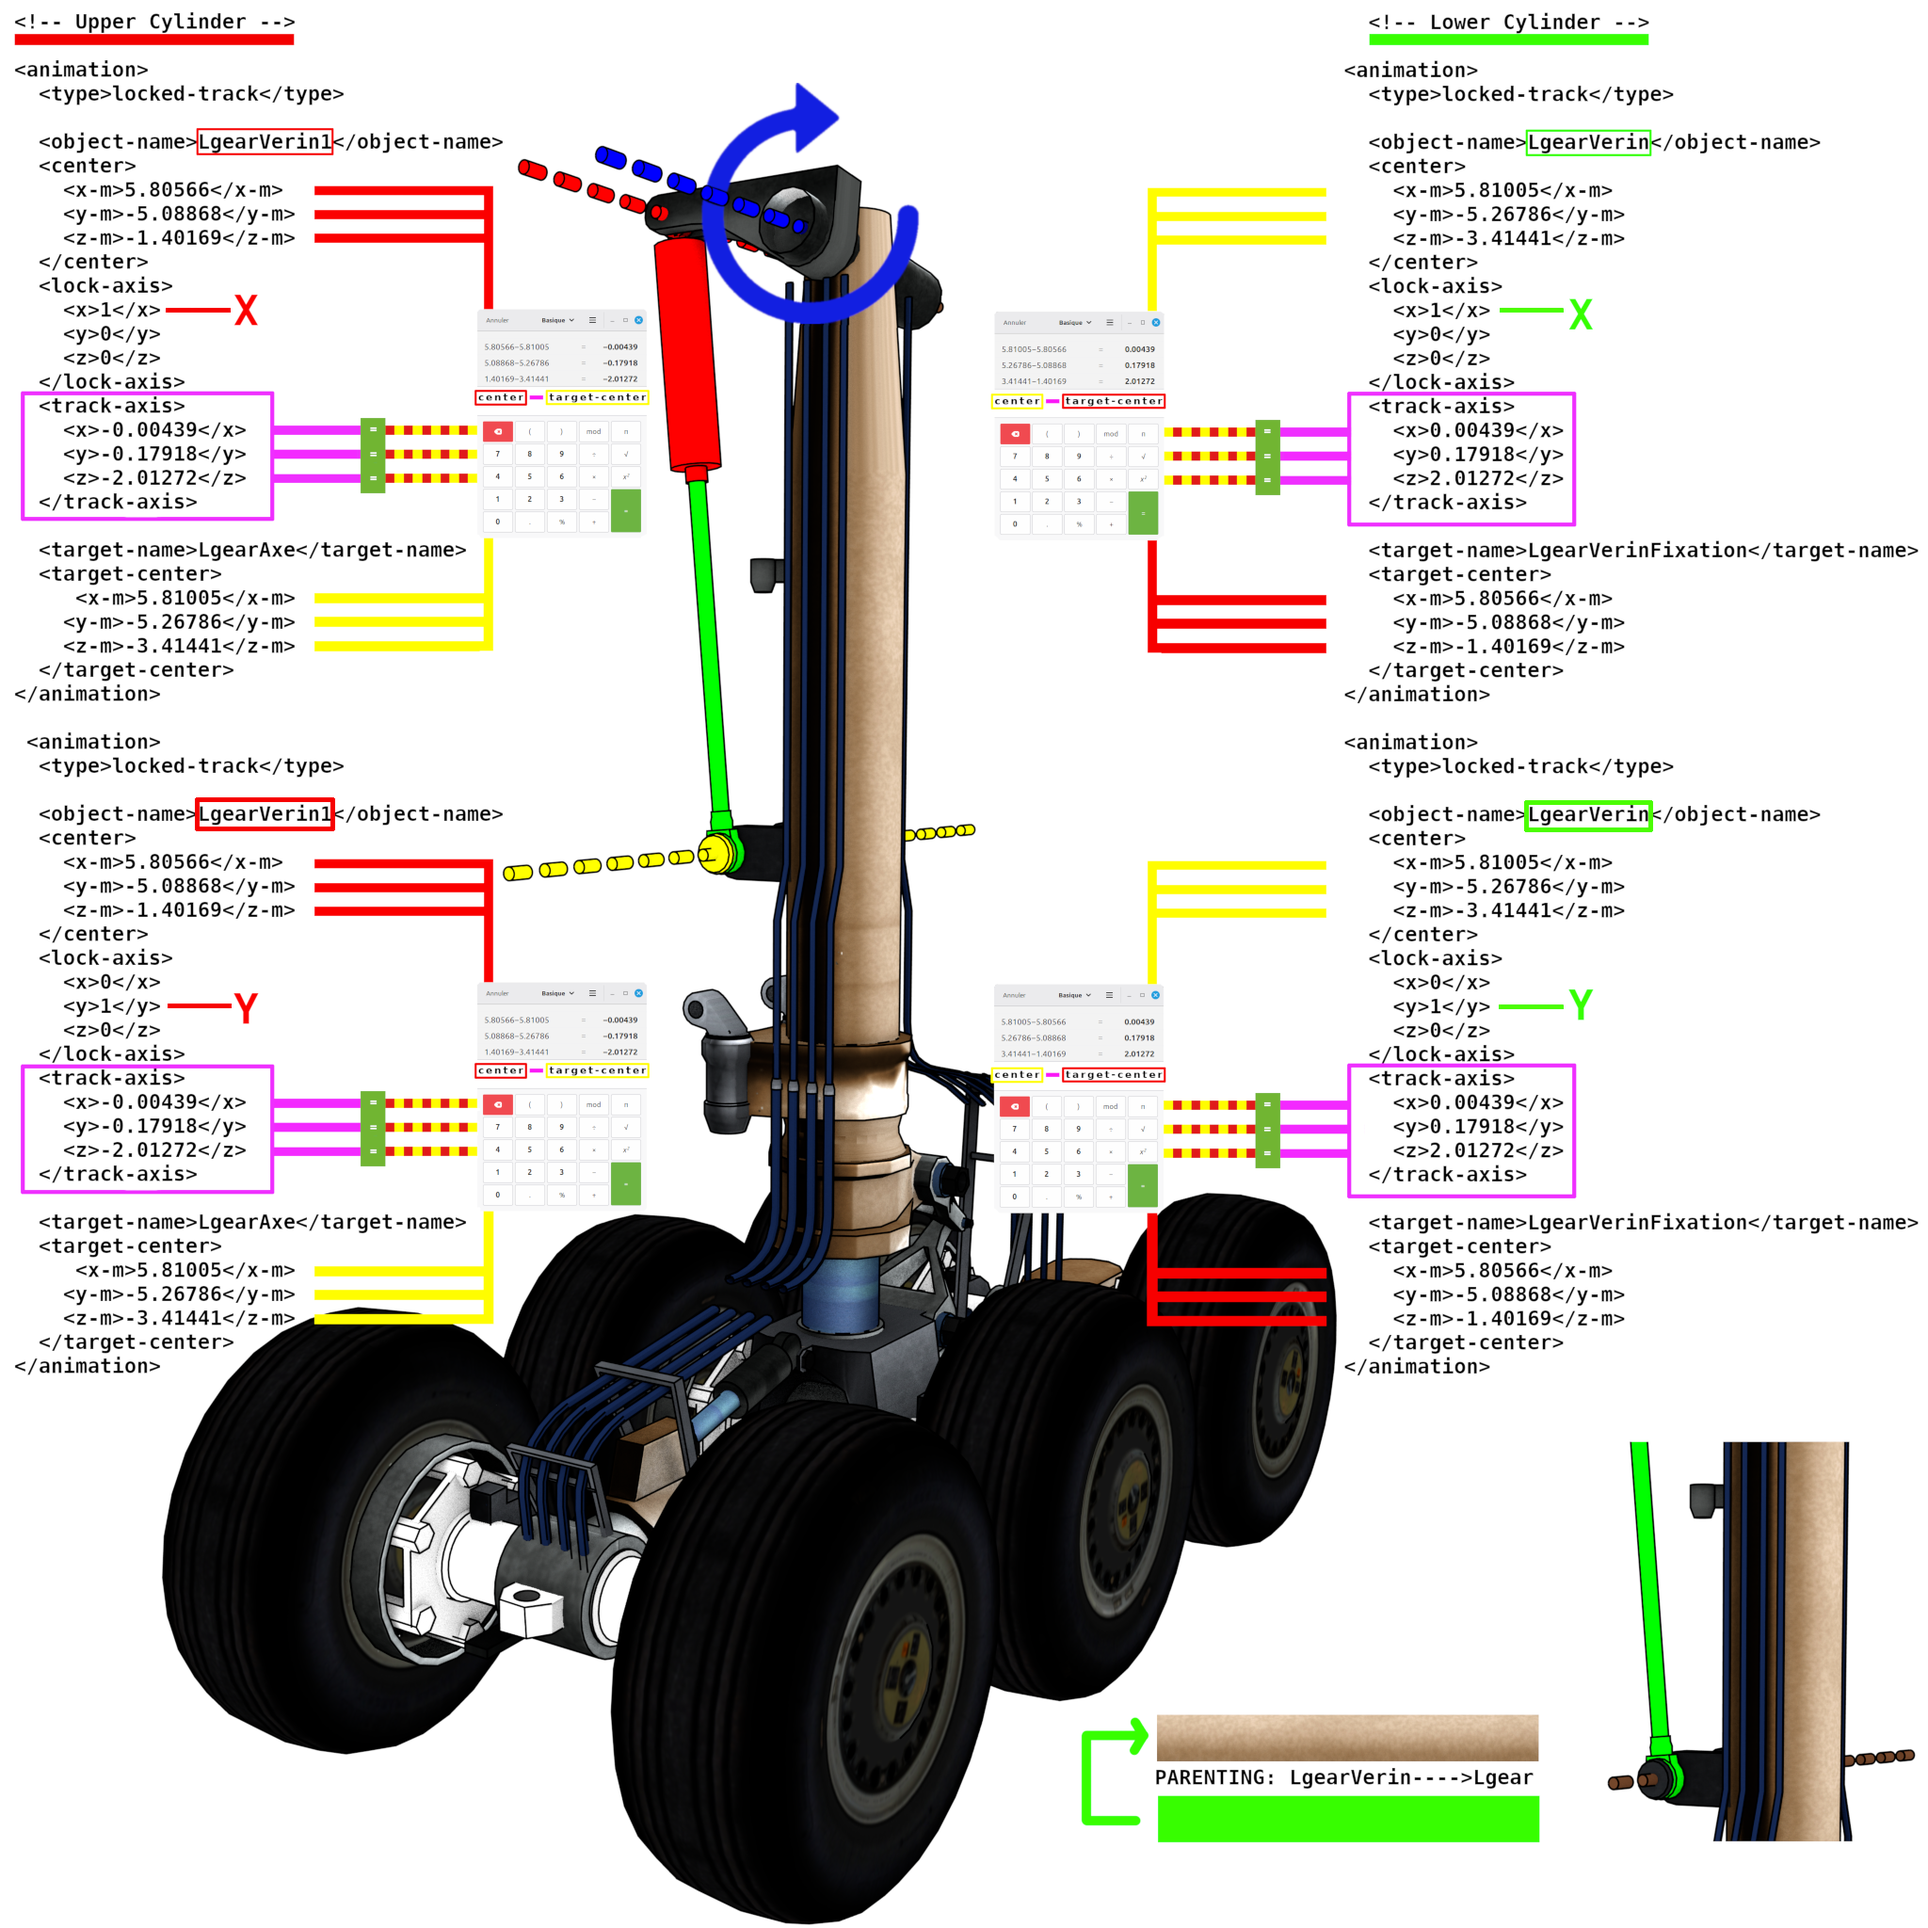
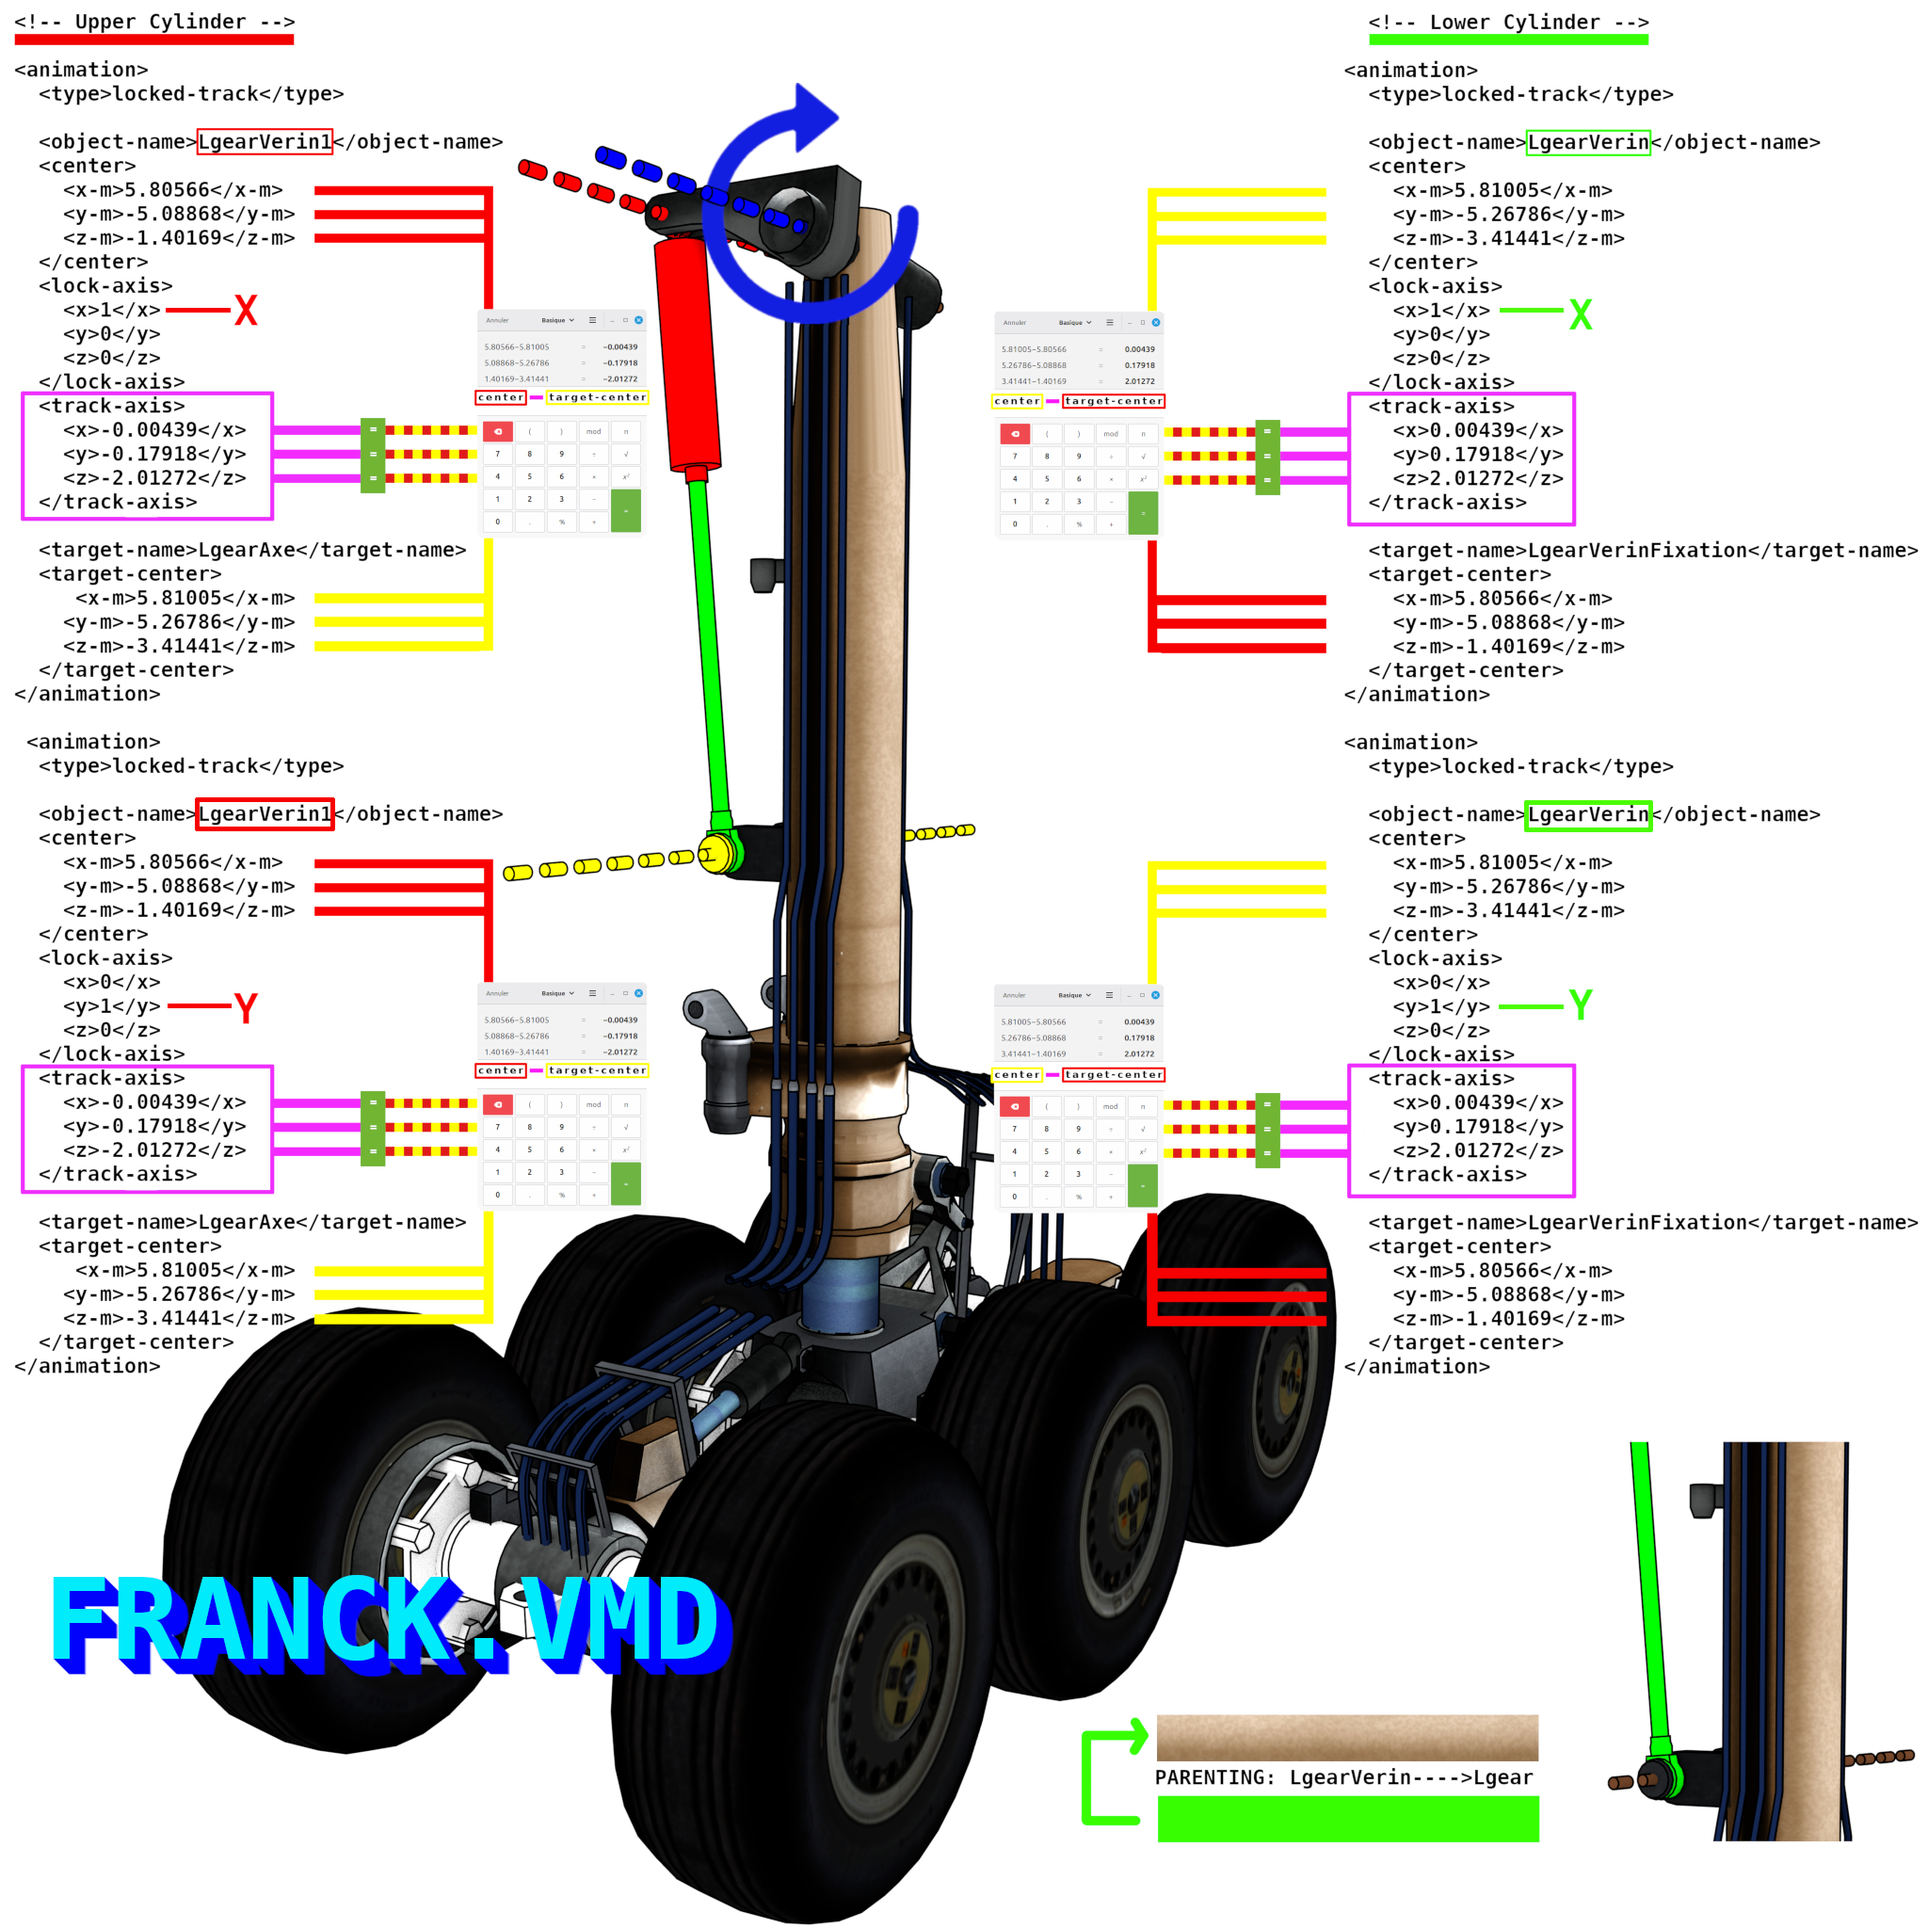
png and README 4

Changed region(s): [[0.0, 0.8125, 0.375, 0.875]]

diff --git a/README.md b/README.md
@@ -2,6 +2,6 @@
 
 ![Image](https://i.ibb.co/9mhQD1Kd/loked-trak-Scissors-parenting-Flightgear.jpg)
 
-![Image](https://i.ibb.co/7d6qpkT9/Locked-track-Verin.jpg)
+![Image](https://i.ibb.co/fY1s0Qfw/Locked-track-Verin.jpg)
 
 
